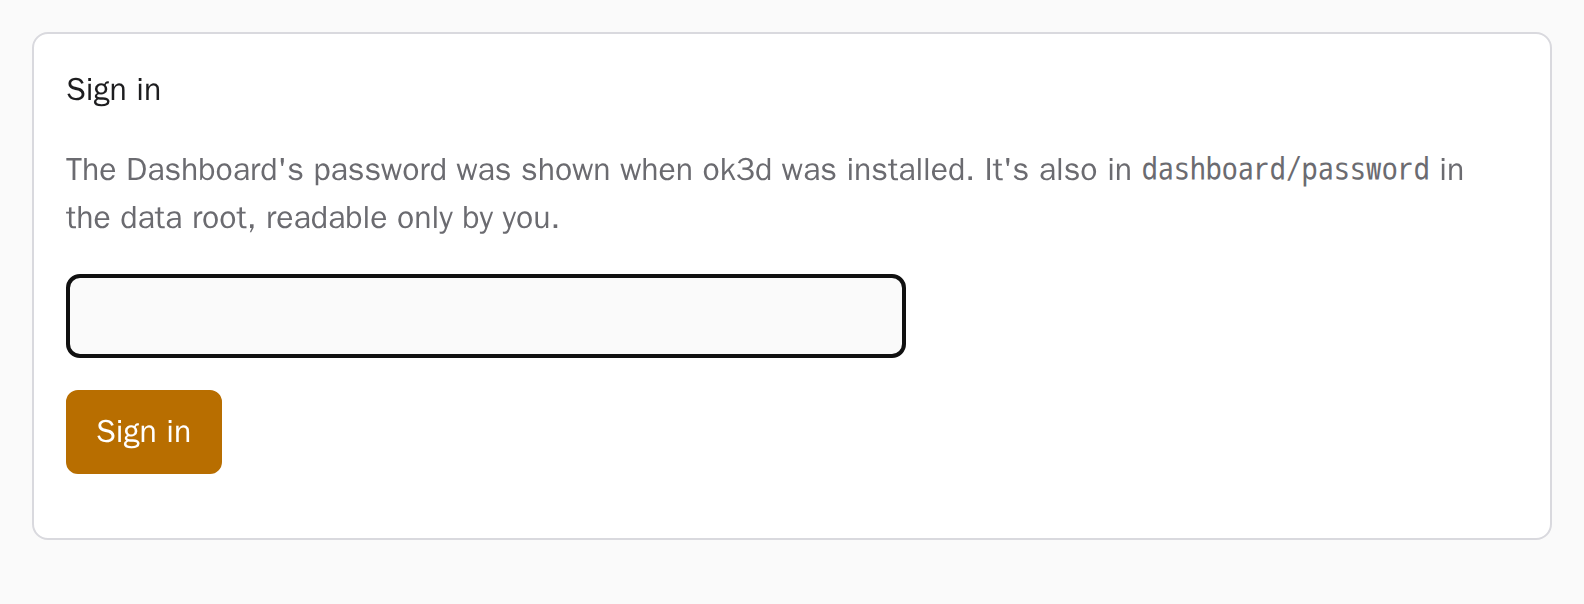
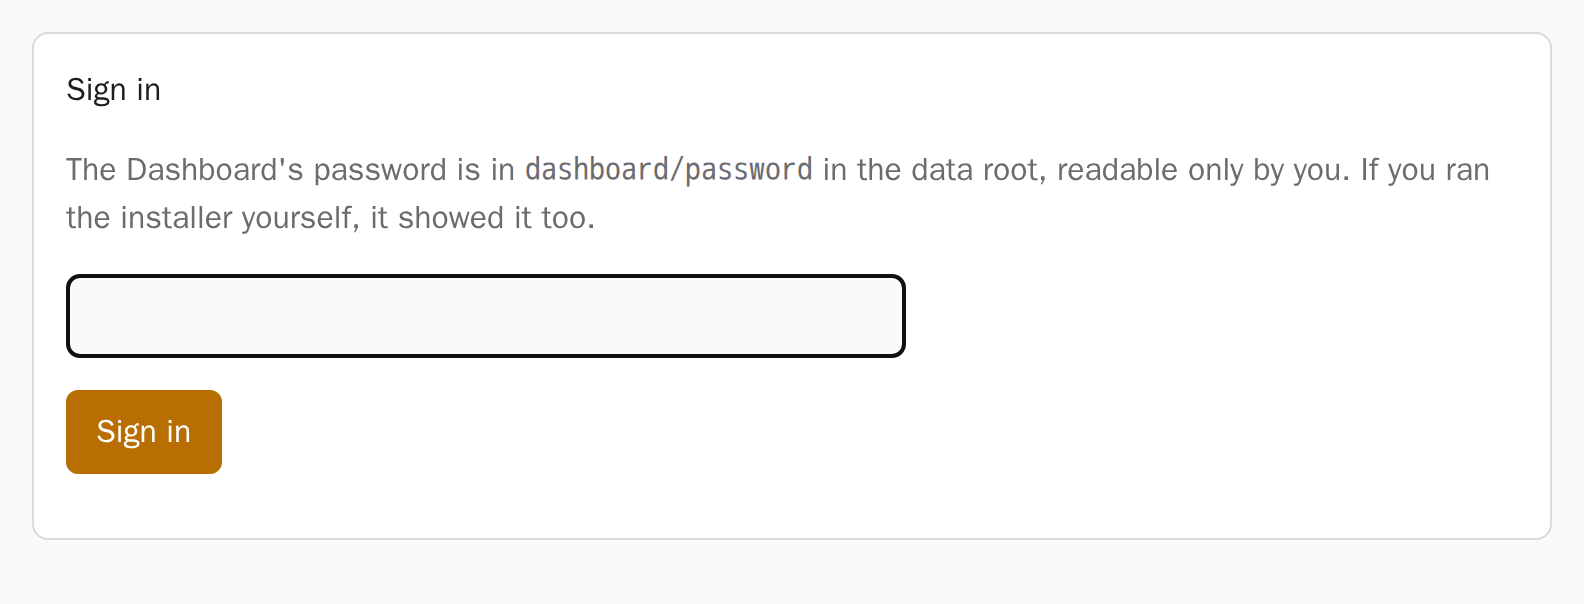
Release 0.5.0
The version, both charts' versions, and the changelog's date. Its
Upgrading notes say how to come from 0.4 (the installer again, then Check
and Apply on the Dashboard) and that the simulated network needs demo
down and up once. docs/upgrading.md leads with that path, with the
commands after it. Upgrades from the Dashboard, maintenance windows, Apply
asking first, and each choice shown as its command move to 0.5.1
(decided 2026-10-29), in PLAN.md and the roadmap.

The sign-in page's screenshots are retaken with its new text, and Home's
and Grafana's with that run's data; each was looked at.

Changed region(s): [[0.2784, 0.2682, 0.959, 0.298], [0.0619, 0.3278, 0.3712, 0.3874]]

diff --git a/src/ok3d/__init__.py b/src/ok3d/__init__.py
@@ -6,4 +6,4 @@ arrives in the release the roadmap in PLAN.md gives it.
 
 # The version every part reports. A release pull request sets it; the next pull request
 # moves it on to the following version's .dev0.
-__version__ = "0.5.0.dev0"
+__version__ = "0.5.0"

diff --git a/docs/roadmap.md b/docs/roadmap.md
@@ -4,7 +4,7 @@ Where ok3d is, release by release. Every pull request updates this page when it 
 starts, or changes something here. [PLAN.md](../PLAN.md#roadmap) has the detail of each
 release and the reasons behind it.
 
-**Now:** 0.4.0 is released, and production is moving to it. 0.5.0 is in progress.
+**Now:** 0.5.0 is being released. 0.5.1, the Dashboard's second step, comes next.
 
 | Release | What it brings | Status |
 |---|---|---|
@@ -12,6 +12,7 @@ release and the reasons behind it.
 | 0.3.0 | Groundwork: CI, hooks, tests, the charts, the `ok3d` command, the certificate authority | Released ([v0.3.0](https://github.com/southsidedean/observability-k3d/releases/tag/v0.3.0)) |
 | 0.4.0 | Metrics, alerts that reach you, and a safe front door | Released ([v0.4.0](https://github.com/southsidedean/observability-k3d/releases/tag/v0.4.0)) |
 | 0.5.0 | The Dashboard: set up and change ok3d from a web page, and screenshots in the docs | In progress |
+| 0.5.1 | The Dashboard's second step: upgrades, maintenance windows, and Apply asking first | Planned |
 | 0.6.0 | Logs and changes: syslog, host logs, what-changed markers, new devices | Planned |
 | 0.7.0 | The NOC: the board, alerts that know the layout, the internet link's record, backups | Planned |
 | 0.8.0 | One sign-in for every page, the mesh, and traces | Planned |
@@ -47,5 +48,6 @@ release and the reasons behind it.
 | Screenshots of the pages for the docs (`scripts/screenshots.sh` on the test VM) | Done ([#29](https://github.com/southsidedean/observability-k3d/pull/29)) |
 | The Dashboard answers every refused form, and every form has a time limit | Done ([#30](https://github.com/southsidedean/observability-k3d/pull/30)) |
 | A time limit on each whole request to the Dashboard, its headers too | Done ([#32](https://github.com/southsidedean/observability-k3d/pull/32)) |
-| Installing with an AI assistant: a prompt to paste into one, offered near the top of the README | In progress |
-| Release 0.5.0, tested from a bare test VM with the installer and the Dashboard alone | Planned |
+| Installing with an AI assistant: a prompt to paste into one, offered near the top of the README | Done ([#33](https://github.com/southsidedean/observability-k3d/pull/33)) |
+| Upgrades from the Dashboard, maintenance windows, Apply asking first, and each choice's command | Moved to 0.5.1 |
+| Release 0.5.0, tested from a bare test VM with the installer and the Dashboard alone, the AI prompt, and the upgrade from 0.4 | In progress |

diff --git a/PLAN.md b/PLAN.md
@@ -422,10 +422,9 @@ turn up. Production moves to ok3d at 0.4.0.
 - The installer (`curl ... | sh`): the host check, the certificate authority, the helper,
   and the Dashboard container. It prints the Dashboard's address and its password.
 - The Dashboard: the setup cards and choosing parts yourself, settings, write-only secrets,
-  the module and action switches, the Devices page, maintenance windows, Check and Apply
-  (Apply stays off until Check finds no problems, asks first when it would stop something,
-  and keeps the settings from before), What's next, and upgrades (back up, recreate from the
-  new release, check). Each choice shown as its `ok3d` command.
+  the module switches, the Devices page, Check and Apply (Apply stays off until Check finds
+  no problems, and keeps the settings from before), and What's next. The action switches
+  come with the actions, in 0.9.
 - `scripts/screenshots.sh` (moved from 0.4, decided 2026-10-28), with Grafana's dashboards
   and the Dashboard's pages as its first shots, so one script covers both.
 - The helper, and its tests for every request it must refuse.
@@ -444,8 +443,16 @@ turn up. Production moves to ok3d at 0.4.0.
   reports it and stops. Tested with Claude Code on a bare test VM as part of the release test; the docs
   say which assistants it's been tested with.
 - Test: from a bare test VM, the installer and the Dashboard alone give the 0.4 stack, with
-  no terminal after the installer, and the upgrade from 0.4 works from the Dashboard. The
-  AI prompt does the same on another bare VM.
+  no terminal after the installer, and the upgrade from 0.4 works with the installer and the
+  Dashboard. The AI prompt does the same on another bare VM.
+
+### 0.5.1: The Dashboard's second step (moved from 0.5.0, decided 2026-10-29)
+
+- Upgrades from the Dashboard: back up, move to the new release, recreate, and check.
+- Maintenance windows.
+- Apply asks first when it would stop something.
+- Each choice shown as its `ok3d` command.
+- Test: an upgrade from 0.5.0 from the Dashboard alone, with no terminal.
 
 ### 0.6: Logs and changes
 

diff --git a/docs/upgrading.md b/docs/upgrading.md
@@ -2,24 +2,42 @@
 
 ## To a new release
 
-ok3d's cluster is made again on every upgrade, and everything worth keeping stays in the
-data root, so a new cluster picks up where the old one left off.
+Everything worth keeping stays in the data root, so a new release picks up where the old one
+left off.
 
 1. Read the release's notes in [CHANGELOG.md](../CHANGELOG.md), especially anything under
    "Upgrading".
 2. Back up the data root's small, precious parts: `grafana/`, `certs/`, and your
    `settings.yaml`, `devices.yaml`, and `.env`. (From 0.7, `./ok3d backup` does this.)
-3. Move to the release and make the cluster again:
+3. Run the installer again, on the server, as yourself:
 
    ```sh
-   git fetch --tags && git switch --detach v0.4.0   # the release you're moving to
-   ./ok3d check
-   ./ok3d delete --yes
-   ./ok3d apply
+   curl -fsSL https://raw.githubusercontent.com/southsidedean/observability-k3d/main/install.sh | sh
    ```
 
-Prometheus's history, Alertmanager's silences, Grafana's database, and the certificate
-authority come through unchanged, so your devices keep trusting the pages.
+   It brings `~/ok3d` to the latest release, keeps your settings, devices, `.env`, and the
+   certificate authority, and starts the new release's Dashboard. From 0.4, this is also
+   what first sets up the Dashboard. If your copy of ok3d is somewhere else, say where:
+   `... | OK3D_DIR=/path/to/ok3d sh`.
+4. On the Dashboard, **Check**, then **Apply**, which brings the cluster up to date with the
+   new release.
+
+From 0.5.1, an Upgrade button on the Dashboard does steps 2 to 4.
+
+### With commands instead
+
+To move to a release yourself and make the cluster again from scratch:
+
+```sh
+cd ~/ok3d
+git fetch --tags && git switch --detach v0.5.0   # the release you're moving to
+./ok3d check
+./ok3d delete --yes
+./ok3d apply
+```
+
+Either way, Prometheus's history, Alertmanager's silences, Grafana's database, and the
+certificate authority come through unchanged, so your devices keep trusting the pages.
 
 ## From the old stack (v0.2.0 and before)
 

diff --git a/CHANGELOG.md b/CHANGELOG.md
@@ -1,9 +1,16 @@
 # Changelog
 
-## 0.5.0 (unreleased)
+## 0.5.0 (2026-10-29)
 
 ### Upgrading
 
+- From 0.4, run the installer, which brings your checkout in `~/ok3d` to 0.5.0, keeps your
+  settings and certificate authority, and starts the Dashboard:
+  `curl -fsSL https://raw.githubusercontent.com/southsidedean/observability-k3d/main/install.sh | sh`.
+  Then Check and Apply on the Dashboard. If your copy of ok3d isn't in `~/ok3d`, put
+  `OK3D_DIR=/path/to/ok3d` before `sh`. [docs/upgrading.md](docs/upgrading.md) has the steps.
+- If you run the simulated network, run `./ok3d demo down` and `./ok3d demo up` once after
+  upgrading: its devices from 0.4 don't come back after a restart, and new ones do.
 - `settings.yaml` may hold only your own settings, and `devices.yaml` only `devices`.
   `./ok3d check` now refuses either one if it sets the chart's own sections
   (`kube-prometheus-stack`, `prometheus-blackbox-exporter`, `gateway`, `global`), which
